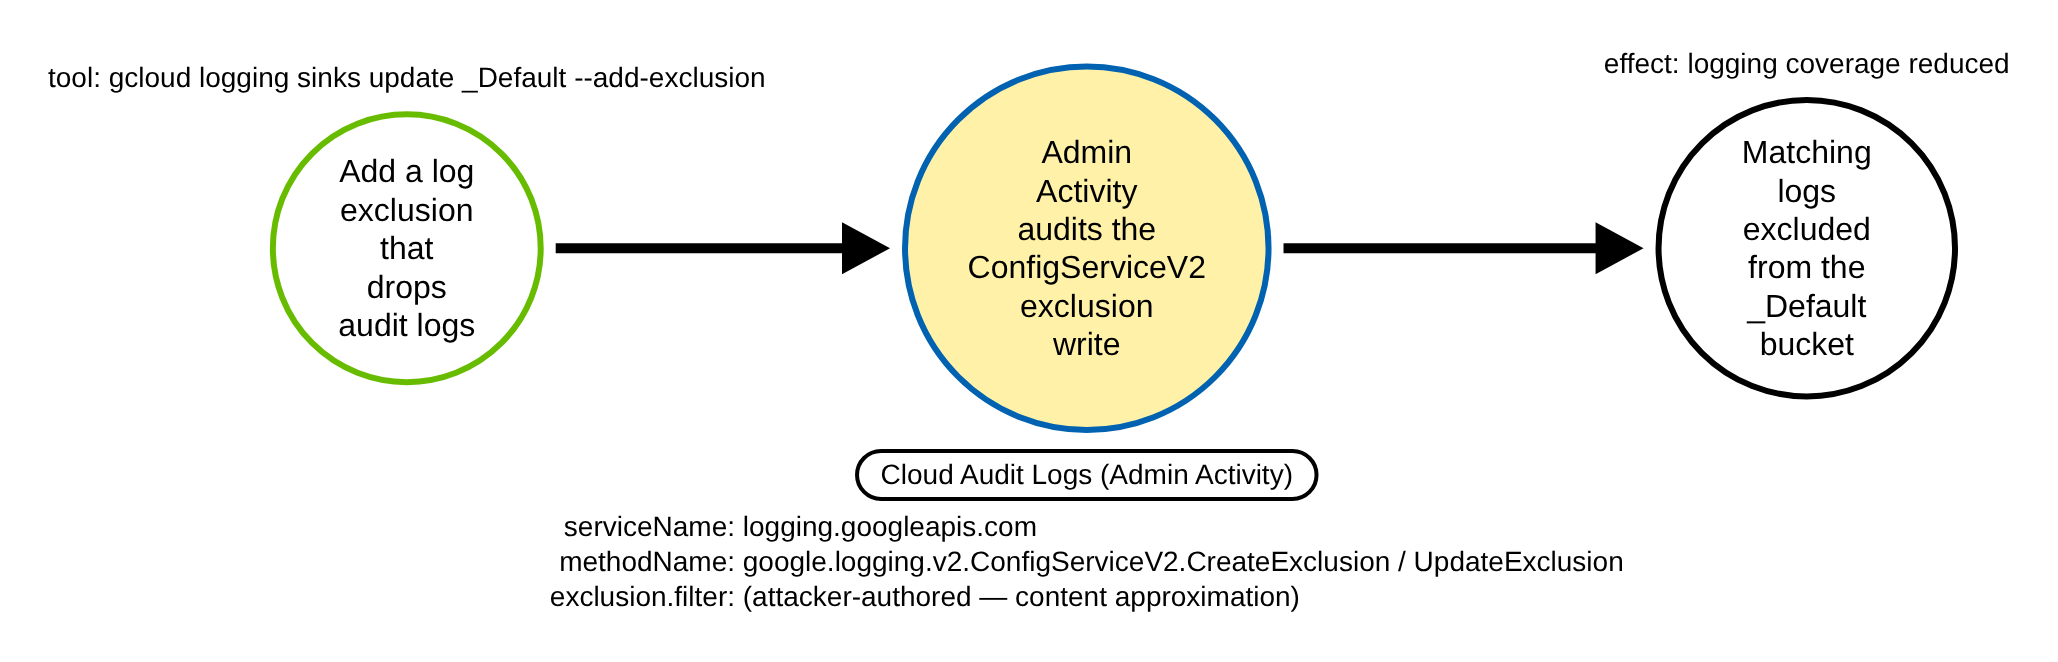
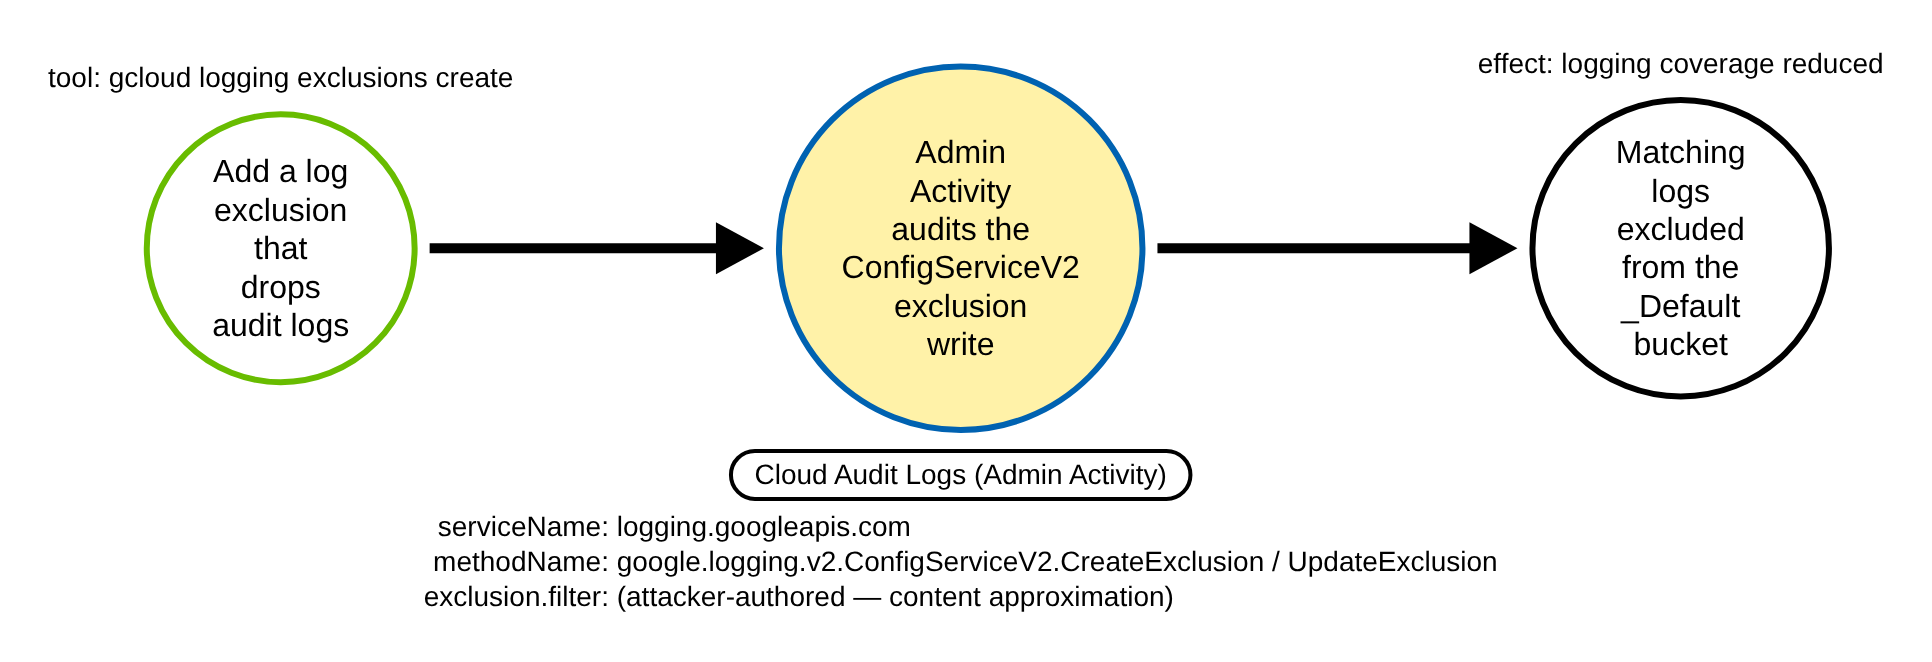
TRR9038 review fixes
Claude-Session: https://claude.ai/code/session_011R2G5vRE8SMk32muL1RApR

diff --git a/detections/RULE_DEFECTS.md b/detections/RULE_DEFECTS.md
@@ -108,6 +108,8 @@ by entry ID (for example `L14`). IDs are not reused: a closed entry's ID stays r
 | [K57](#k57-aws_eks_access_entry_cluster_admin_policy-no-safe-sigma-predicate-for-a-cross-account-grant) | `T1098.006/aws_eks_access_entry_cluster_admin_policy` | no safe Sigma predicate raises fidelity on a cross-account grant: `principalArn\|fieldref\|contains: recipientAccountId` goes quiet when the attacker names its role with the victim account ID | false negative (documented) | low |
 | [KTBD-GL1](#ktbd-gl1-gcp_logging_sink_tampered-the-exclusionbucket-grade-is-a-filter-content-approximation) | `T1562.008/gcp_logging_sink_tampered`, the exclusion branch | one record cannot weigh whether an exclusion's filter is over-broad or which logs it drops (the attacker authors the filter text), so the exclusion branch fires on any `ConfigServiceV2` exclusion write; a deliberate narrow exclusion that drops only noisy non-security logs is a documented false positive. The non-spoofable `_Default`-scope check is the discriminator the rule keys on | false positive, description | medium |
 | [KTBD-GL2](#ktbd-gl2-gcp_logging_sink_tampered-methodname-casing-and-the-disabled-field-path-are-unverified-against-primary-docs) | `T1562.008/gcp_logging_sink_tampered` | the `methodName` casing (`...ConfigServiceV2.DeleteSink`) and the `request.sink.disabled` field path are assumptions: Google's primary audit-method docs were unreachable at build and the casing is taken from Elastic's query. Mitigated by a case- and version-tolerant `\|re\|i` regex and by the `_Default`-scope branch, which fires on a `_Default` disable independently of the `disabled` field path | portability, description | low |
+| [KTBD-GL3](#ktbd-gl3-gcp_logging_sink_tampered-a-benign-_default-sink-filter-or-description-edit-also-fires-branch-a) | `T1562.008/gcp_logging_sink_tampered`, the `_Default` sink/bucket branch | a benign `UpdateSink` that only edits the `_Default` sink's own inclusion filter or description (GCP's documented cost-control knob; re-emitted by a logging-as-code apply each run) targets `.../sinks/_Default`, carries no error and is not a disable, so it fires branch A. One record cannot tell it from a malicious re-divert / filter-narrowing of `_Default` (same single-record limit as KTBD-GL1). Firing is defensible (narrowing the `_Default` filter is itself a tamper); the `_Default` scope is not a clean benign/attack separator for the `UpdateSink` leg | false positive, description | medium |
+| [KTBD-GL4](#ktbd-gl4-gcp_logging_sink_tampered-delete-or-re-divert-of-a-custom-audit-export-sink-is-a-miss) | `T1562.008/gcp_logging_sink_tampered`, the `_Default`-target branch | the delete-or-re-divert leg keys on the `.../sinks/_Default` (or `.../buckets/_Default`) scope, so `DeleteSink` or a destination re-divert of a CUSTOM aggregated audit-export sink (the GCP-CIS pattern used in the repo's own `gcp-platform-ops` benign slice, `org-audit-to-siem`) is a miss. Covered only if the tamper uses the `disabled` flag (branch B). Coverage assumes audit logs flow via `_Default`; blanket-firing on custom-sink deletes would reintroduce the `delete-custom-sink-decommission` false positive, so it stays a documented gap | false negative | medium |
 
 ## Linux (auditd and node file events)
 
@@ -2334,6 +2336,66 @@ the current ones.
   disable-a-custom-sink case. **Then**: re-verify `methodName` casing and the `disabled` path
   against a real Cloud Audit Log record and Google's docs when reachable; pin an exact-casing
   positive if confirmed.
+
+### KTBD-GL3. gcp_logging_sink_tampered: a benign _Default sink filter or description edit also fires branch A
+
+- **Rule**: [`sigma/T1562.008/gcp_logging_sink_tampered.yml`](sigma/T1562.008/gcp_logging_sink_tampered.yml) (level high).
+- **Kind**: false positive, description. **Severity**: medium. **Procedures**: TRR9038.GCP.A.
+- **Problem**: branch A fires on ANY successful `ConfigServiceV2` sink/bucket write whose
+  `resourceName` ends in `/sinks/_Default` or `/buckets/_Default`, regardless of what the
+  write changes. A legitimate `UpdateSink` that only edits the `_Default` sink's own
+  inclusion/exclusion **filter** or **description** — GCP's documented way to cut `_Default`
+  bucket ingestion cost, and what a logging-as-code (`terraform apply`, Config Connector)
+  reconcile re-emits on every run — targets `.../sinks/_Default`, uses `UpdateSink`, carries
+  no error (`status.code` absent) and sets no `disabled` flag, so it fires. KTBD-GL1 covers
+  the project-level **exclusion** API; this is the `_Default` sink's own embedded filter, a
+  different leg KTBD-GL1 does not reach. The rule's `falsepositives:` block previously named
+  only custom-sink lifecycle as the non-firing benign case and framed every `_Default` write
+  as attack; that overclaimed a clean `_Default`-vs-custom split for the `UpdateSink` leg.
+- **Evidence**: probe (`sigma_eval.py`) — a success `UpdateSink` of
+  `projects/trr9038-demo-project/sinks/_Default` with `disabled=false`, `updateMask=filter`,
+  `filter='NOT resource.type="gce_instance"'` → `FIRES (2VL) FIRES (3VL)`. A trivial benign
+  variant shares the `_Default` scope, the method and the no-error status, differing only in
+  the `updateMask` / `filter` / `destination` the `_Default` branch does not inspect.
+- **Fix**: no rule-logic change — firing on a `_Default` filter narrowing is **defensible**,
+  because narrowing the `_Default` inclusion filter is itself a logging tamper. This is a
+  disclosure, not a bug: one record cannot tell a benign cost-control filter/description edit
+  from a malicious re-divert or filter-narrowing of `_Default` (same single-record limit as
+  KTBD-GL1). Allowlist benign `_Default` edits by `protoPayload.resourceName` /
+  `authenticationInfo.principalEmail` + the `updateMask`, and correlate with change
+  management. **Then**: an allowlist filter proven by a filtered case closes the leg.
+
+### KTBD-GL4. gcp_logging_sink_tampered: delete or re-divert of a custom audit-export sink is a miss
+
+- **Rule**: [`sigma/T1562.008/gcp_logging_sink_tampered.yml`](sigma/T1562.008/gcp_logging_sink_tampered.yml) (level high).
+- **Kind**: false negative. **Severity**: medium. **Procedures**: TRR9038.GCP.A.
+- **Problem**: the sink/bucket delete-or-re-divert leg (branch A) keys on
+  `protoPayload.resourceName` ending in `/sinks/_Default` or `/buckets/_Default`. Deleting or
+  re-pointing a CUSTOM aggregated audit-export sink is therefore silent. That is the GCP CIS
+  pattern — and the repo's OWN benign corpus carries a real org-level custom audit sink
+  (`gcp-platform-ops` slice, `organizations/123456789012/sinks/org-audit-to-siem`, filter
+  `logName:"cloudaudit.googleapis.com"`, `includeChildren`) that routes all audit logs to a
+  SIEM. Many mature orgs disable `_Default` and rely on such a custom sink, so for them
+  `_Default` is irrelevant and the real tamper target is the custom sink. The rule's
+  description already argues that disabling a custom audit-export sink is as much a tamper as
+  disabling `_Default` and catches that via branch B (`request.sink.disabled` true); it does
+  not extend the same reasoning to `DeleteSink` or a destination re-divert of a custom sink,
+  which are strictly more destructive. An attacker who deletes or re-points the custom audit
+  sink instead of setting `disabled` evades.
+- **Evidence**: probe (`sigma_eval.py`) over three `organizations/123456789012/sinks/org-audit-to-siem`
+  records — `quiet` for `DeleteSink`, `quiet` for `UpdateSink` re-diverting the destination
+  (`disabled=false`), `FIRES` only for `UpdateSink` setting `disabled=true`. Confirms the
+  delete and re-divert of a custom audit sink are missed while the disable leg fires.
+- **Fix**: documented coverage assumption, not a rule change. The delete/re-divert leg
+  **assumes audit logs flow via `_Default`**; delete or re-divert of a custom
+  audit-aggregation sink is covered only if it uses the `disabled` flag (branch B).
+  Blanket-firing on every custom-sink `DeleteSink` would reintroduce the
+  `delete-custom-sink-decommission` false positive (near-miss `neg3`) — a single record
+  cannot tell a benign custom-sink decommission from a malicious custom-audit-sink delete —
+  so the gap stays documented rather than closed with a noisy predicate. **Then**: a
+  non-clean severity-hint overlay (an `UpdateSink` destination change away from a
+  `logging.googleapis.com/.../buckets/...` destination, proven by a near-miss) or correlation
+  with the sink's prior `logName:"cloudaudit.googleapis.com"` filter would raise fidelity.
 
 ## Checks to add
 

diff --git a/research/trr9038/gcp/README.md b/research/trr9038/gcp/README.md
@@ -209,7 +209,24 @@ Match Admin Activity events with `serviceName` `logging.googleapis.com` and a
 `.../sinks/_Default` or `.../buckets/_Default`, or (A) an `UpdateSink` sets
 `request.sink.disabled` true, or (C) it is any exclusion write; and the call did not
 error (`protoPayload.status.code` absent). A lifecycle op on a CUSTOM sink/bucket does
-not match.
+not match the `_Default`-target leg (it may still match the disable leg).
+
+**Coverage assumptions and known limits.** The `_Default` scope is a server-set,
+non-spoofable discriminator, but it is not by itself a clean attack/benign separator:
+
+- A benign `UpdateSink` that only edits the `_Default` sink's own inclusion filter or
+  description (GCP's documented cost-control knob; re-emitted by a logging-as-code
+  reconcile each run) also fires branch A — it targets `.../sinks/_Default`, carries no
+  error and is not a disable. One record cannot tell it from a malicious re-divert or
+  filter-narrowing of `_Default`; firing is defensible (narrowing the `_Default` filter
+  is itself a tamper) but it is a documented false positive — see
+  [`RULE_DEFECTS.md` KTBD-GL3](../../../detections/RULE_DEFECTS.md).
+- The delete-or-re-divert leg **assumes audit logs flow via `_Default`**. A `DeleteSink`
+  or destination re-divert of a CUSTOM aggregated audit-export sink (the GCP-CIS
+  pattern) is covered only if it uses the `disabled` flag (branch B); otherwise it is a
+  miss. Blanket-firing on custom-sink deletes would reintroduce the benign
+  custom-sink-decommission false positive, so the gap stays documented — see
+  [`RULE_DEFECTS.md` KTBD-GL4](../../../detections/RULE_DEFECTS.md).
 
 - Sensor: Cloud Audit Logs (Admin Activity).
 - Rule: [`detections/sigma/T1562.008/gcp_logging_sink_tampered.yml`](../../../detections/sigma/T1562.008/gcp_logging_sink_tampered.yml) (built).
